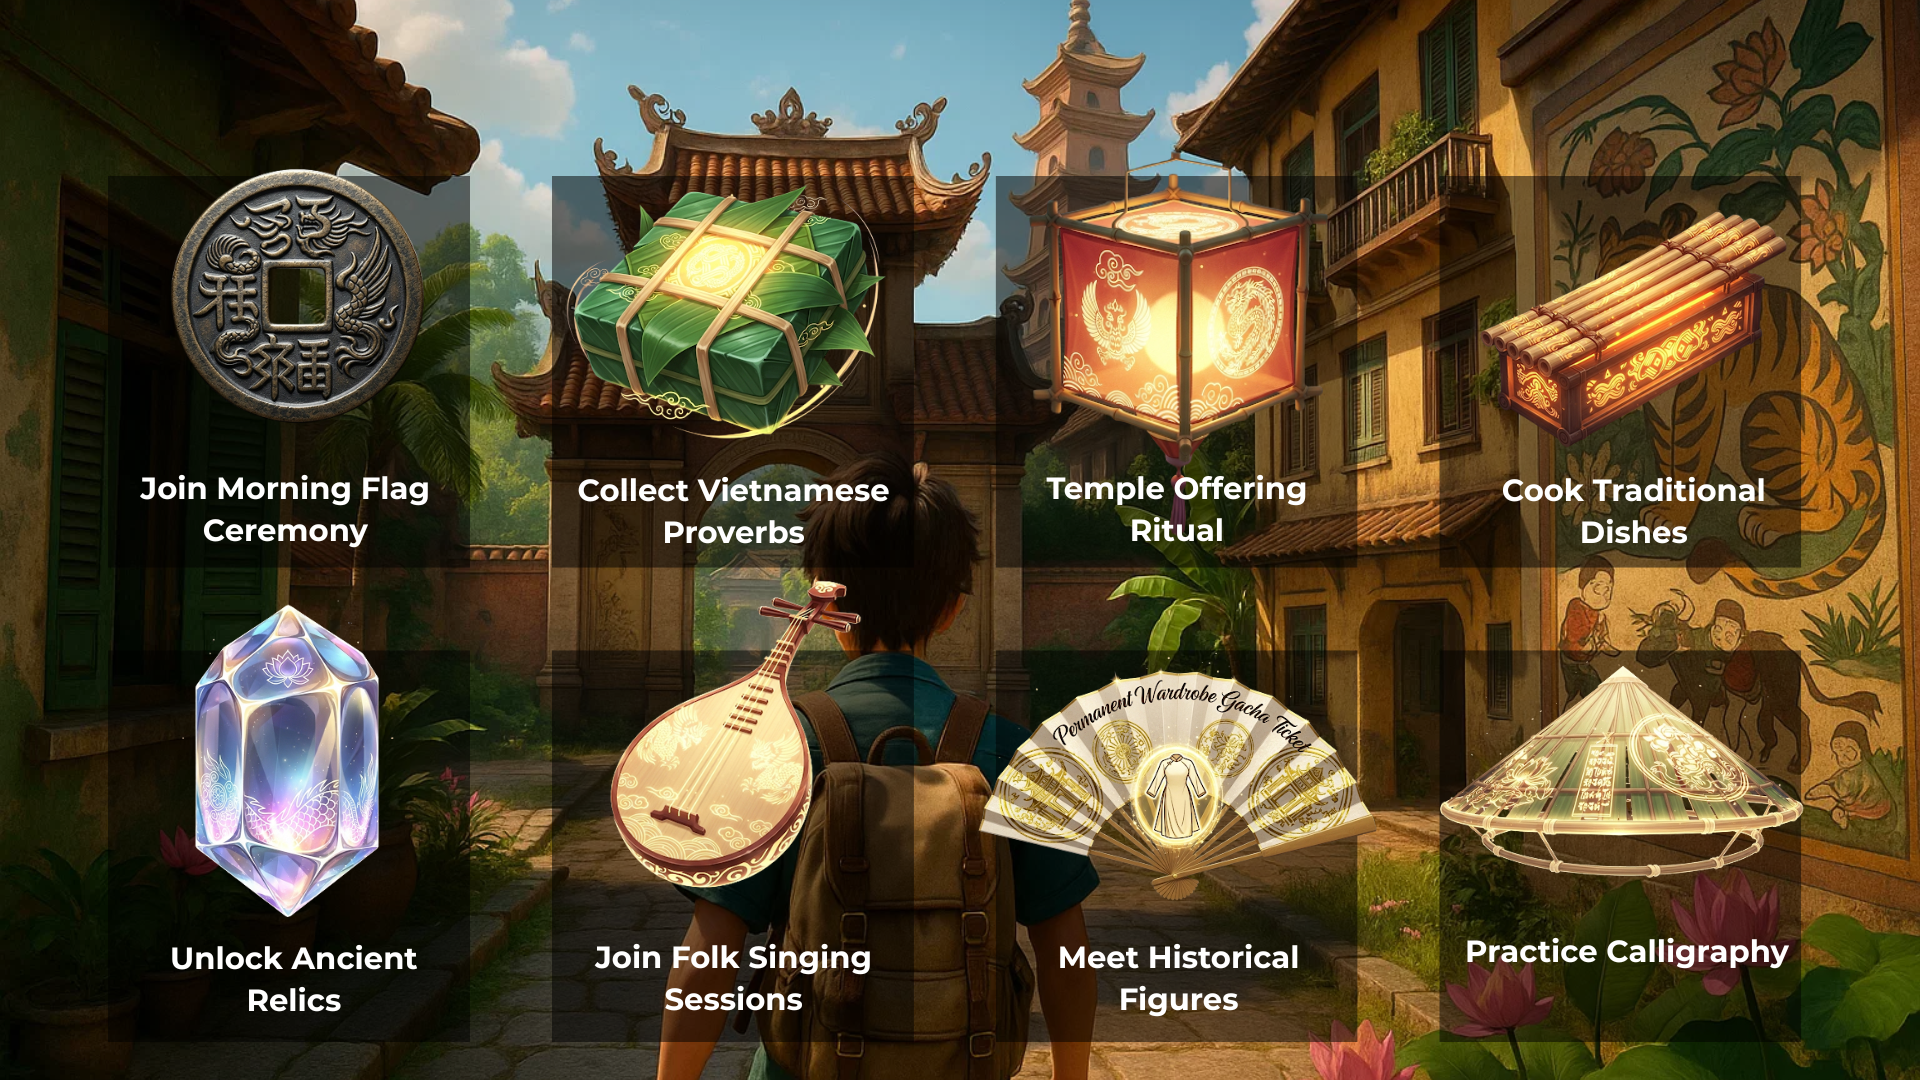
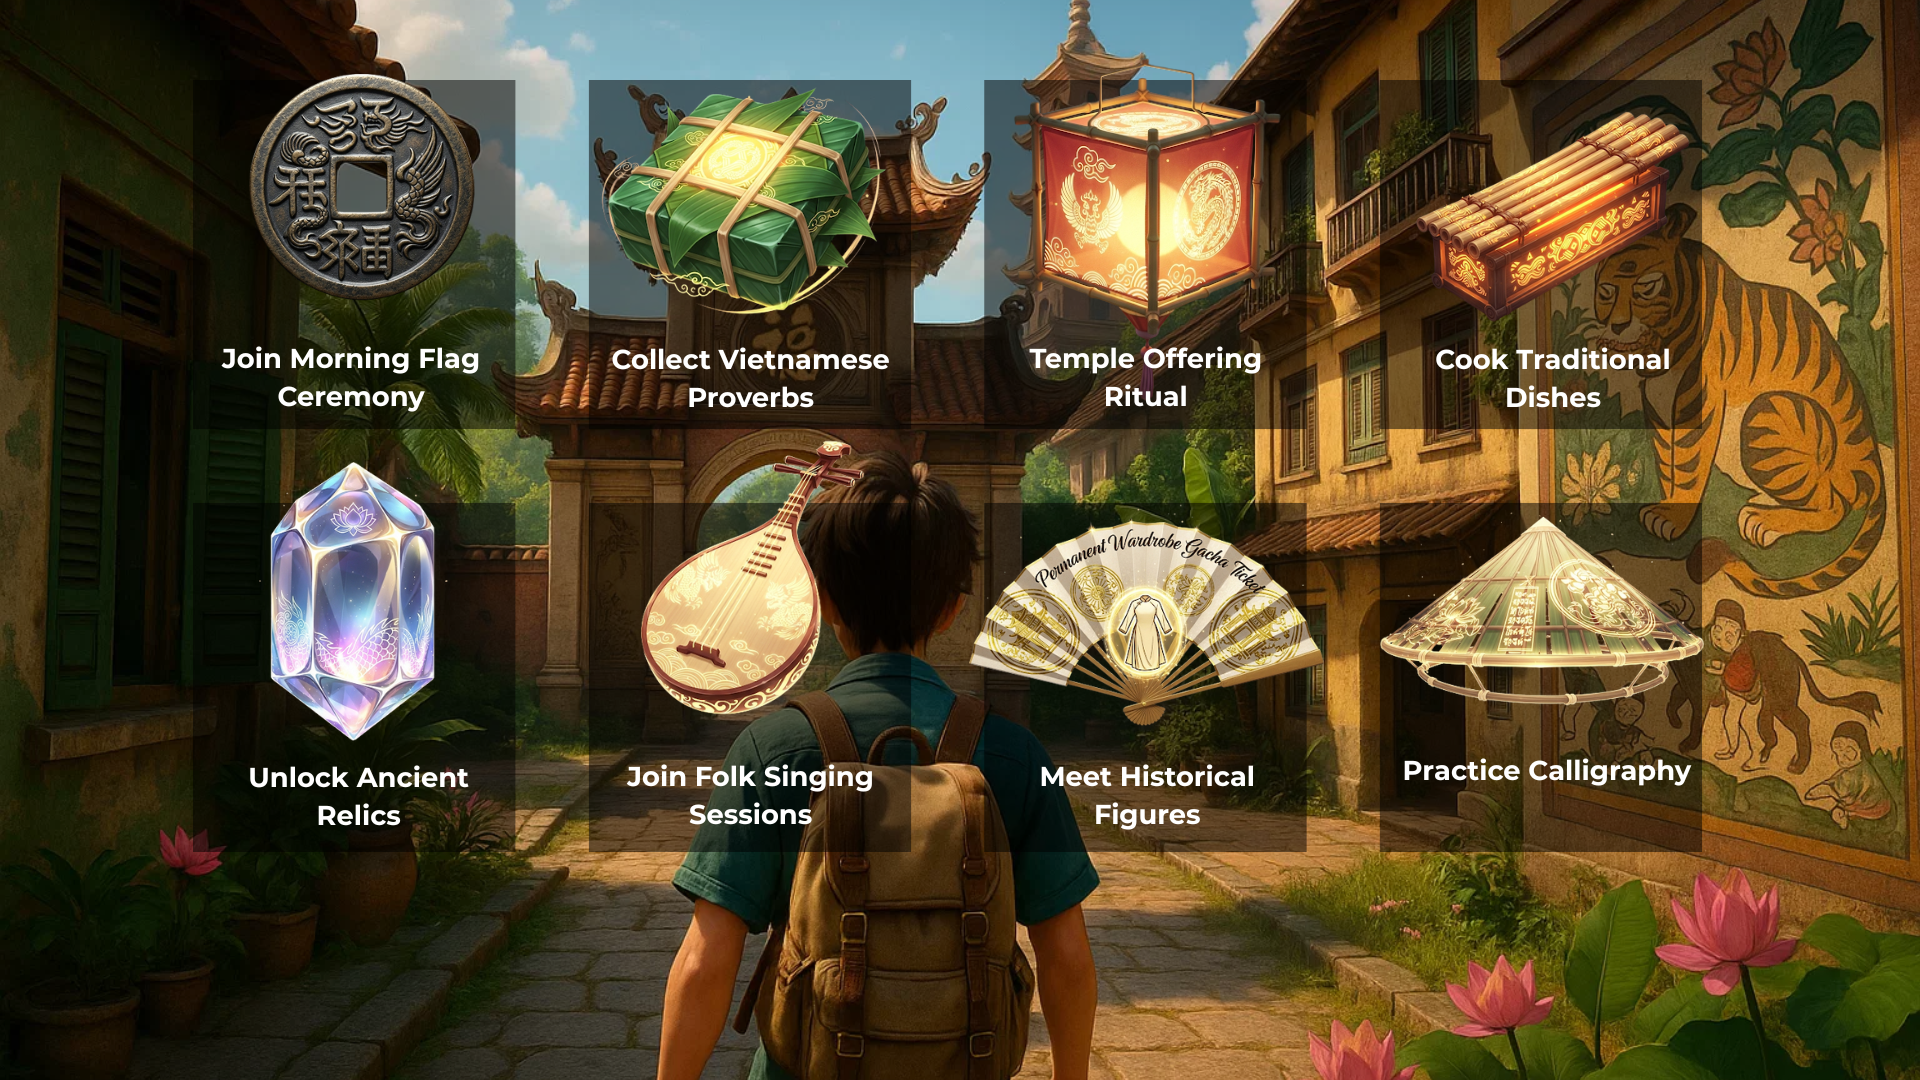
done

diff --git a/public/assets/css/giftStatue.css b/public/assets/css/giftStatue.css
@@ -1,55 +1,66 @@
-body, html {
+body {
     margin: 0;
     padding: 0;
-    width: 100%;
-    height: 100%;
-    overflow: hidden;
-}
-
-.page-container {
-    width: 100vw;
-    height: 100vh;
-    /* Sử dụng ảnh nền đầy đủ của bạn */
-    background-image: url('/assets/img/giftStatue.png');
+    font-family: 'Playfair Display', serif;
+    background: url('/assets/img/giftStatue.png') no-repeat center center fixed;
     background-size: cover;
-    background-position: center;
-    /* Hệ quy chiếu cho các nút bấm */
-    position: relative;
 }
 
-/* Nút Return bằng hình ảnh */
-.return-button {
-    position: absolute;
-    top: 5.5%; /* Tinh chỉnh */
-    left: 2.5%;  /* Tinh chỉnh */
+/* Vùng chứa chính cho giao diện huy hiệu */
+.badge-container {
+    position: relative; /* Rất quan trọng! Để các nút con được định vị dựa trên vùng này */
+
+    /* -- PHẦN SỬA LỖI QUAN TRỌNG NHẤT -- */
+    /* Thay vì kích thước cố định, chúng ta sẽ làm cho nó co giãn */
+    max-width: 1280px;  /* Kích thước tối đa không vượt quá chiều rộng gốc của ảnh */
+    width: 95%;         /* Chiếm 95% chiều rộng của cửa sổ */
+    
+    /* Tự động tính chiều cao để giữ đúng tỷ lệ 16:9 của ảnh */
+    aspect-ratio: 1280 / 720; 
+}
+
+/* Kiểu dáng chung cho cả hai nút */
+.btn {
+    position: absolute; /* Định vị các nút dựa trên .badge-container */
+    
+    /* -- SỬA LỖI VỊ TRÍ -- */
+    /* Sử dụng % để các nút di chuyển cùng ảnh nền */
+    bottom: -55%; /* Khoảng cách từ cạnh dưới của container */
+    width: 20%;   /* Chiều rộng của nút bằng 15% chiều rộng container */
+    height: 10%;   /* Chiều cao của nút bằng 8% chiều cao container */
+    
+    /* Bỏ viền và màu nền mặc định để trông giống như ô trống */
+    border: none;
+    background: transparent; /* Bạn có thể đổi lại màu nếu muốn */
+
+    /* Căn chữ và các thuộc tính khác */
+    display: flex;
+    justify-content: center;
+    align-items: center;
+    color: #e4d7c1;
+    font-size: 1.2vw; /* Cỡ chữ co giãn theo chiều rộng cửa sổ */
+    font-weight: 600;
+    text-decoration: none;
     cursor: pointer;
-    /* border: 2px solid red; */ /* Dùng để debug vị trí */
-}
-.return-button img {
-    width: 160px; /* Điều chỉnh kích thước ảnh nút của bạn */
-    display: block; /* Loại bỏ khoảng trống thừa dưới ảnh */
+    transition: transform 0.2s ease;
 }
 
-/* Kiểu chung cho các nút bấm VÔ HÌNH */
-.overlay-button {
-    position: absolute;
-    background: transparent;
-    cursor: pointer;
-    /* border: 2px dashed yellow; */ /* Dùng để debug vị trí */
+.btn:hover {
+    transform: scale(1.05); /* Hiệu ứng nhỏ khi di chuột qua */
 }
 
-/* Định vị nút Collect All */
-.collect-button {
-    bottom: 9%;
-    left: 36%;
-    width: 14%;
-    height: 7%;
+
+/* Vị trí cụ thể cho từng nút (tính từ cạnh trái) */
+#collect-all-btn {
+    left: 57%;
+    /* Thêm màu nền cho khớp với thiết kế */
+    background-color: #755f58; 
+    border-radius: 30px;
 }
 
-/* Định vị nút Next */
-.next-button {
-    bottom: 9%;
-    right: 36%;
-    width: 14%;
-    height: 7%;
+#next-btn {
+    left: 95%;
+    /* Thêm màu nền cho khớp với thiết kế */
+    background-color: #5c5c5c;
+    border-radius: 30px;
 }

diff --git a/public/assets/css/giftWord.css b/public/assets/css/giftWord.css
@@ -25,8 +25,8 @@ body {
     
     /* -- SỬA LỖI VỊ TRÍ -- */
     /* Sử dụng % để các nút di chuyển cùng ảnh nền */
-    bottom: 8.5%; /* Khoảng cách từ cạnh dưới của container */
-    width: 15%;   /* Chiều rộng của nút bằng 15% chiều rộng container */
+    bottom: -43%; /* Khoảng cách từ cạnh dưới của container */
+    width: 20%;   /* Chiều rộng của nút bằng 15% chiều rộng container */
     height: 8%;   /* Chiều cao của nút bằng 8% chiều cao container */
     
     /* Bỏ viền và màu nền mặc định để trông giống như ô trống */
@@ -52,14 +52,14 @@ body {
 
 /* Vị trí cụ thể cho từng nút (tính từ cạnh trái) */
 #collect-all-btn {
-    left: 29.5%;
+    left: 55%;
     /* Thêm màu nền cho khớp với thiết kế */
     background-color: #755f58; 
     border-radius: 30px;
 }
 
 #next-btn {
-    left: 55.5%;
+    left: 97%;
     /* Thêm màu nền cho khớp với thiết kế */
     background-color: #5c5c5c;
     border-radius: 30px;
